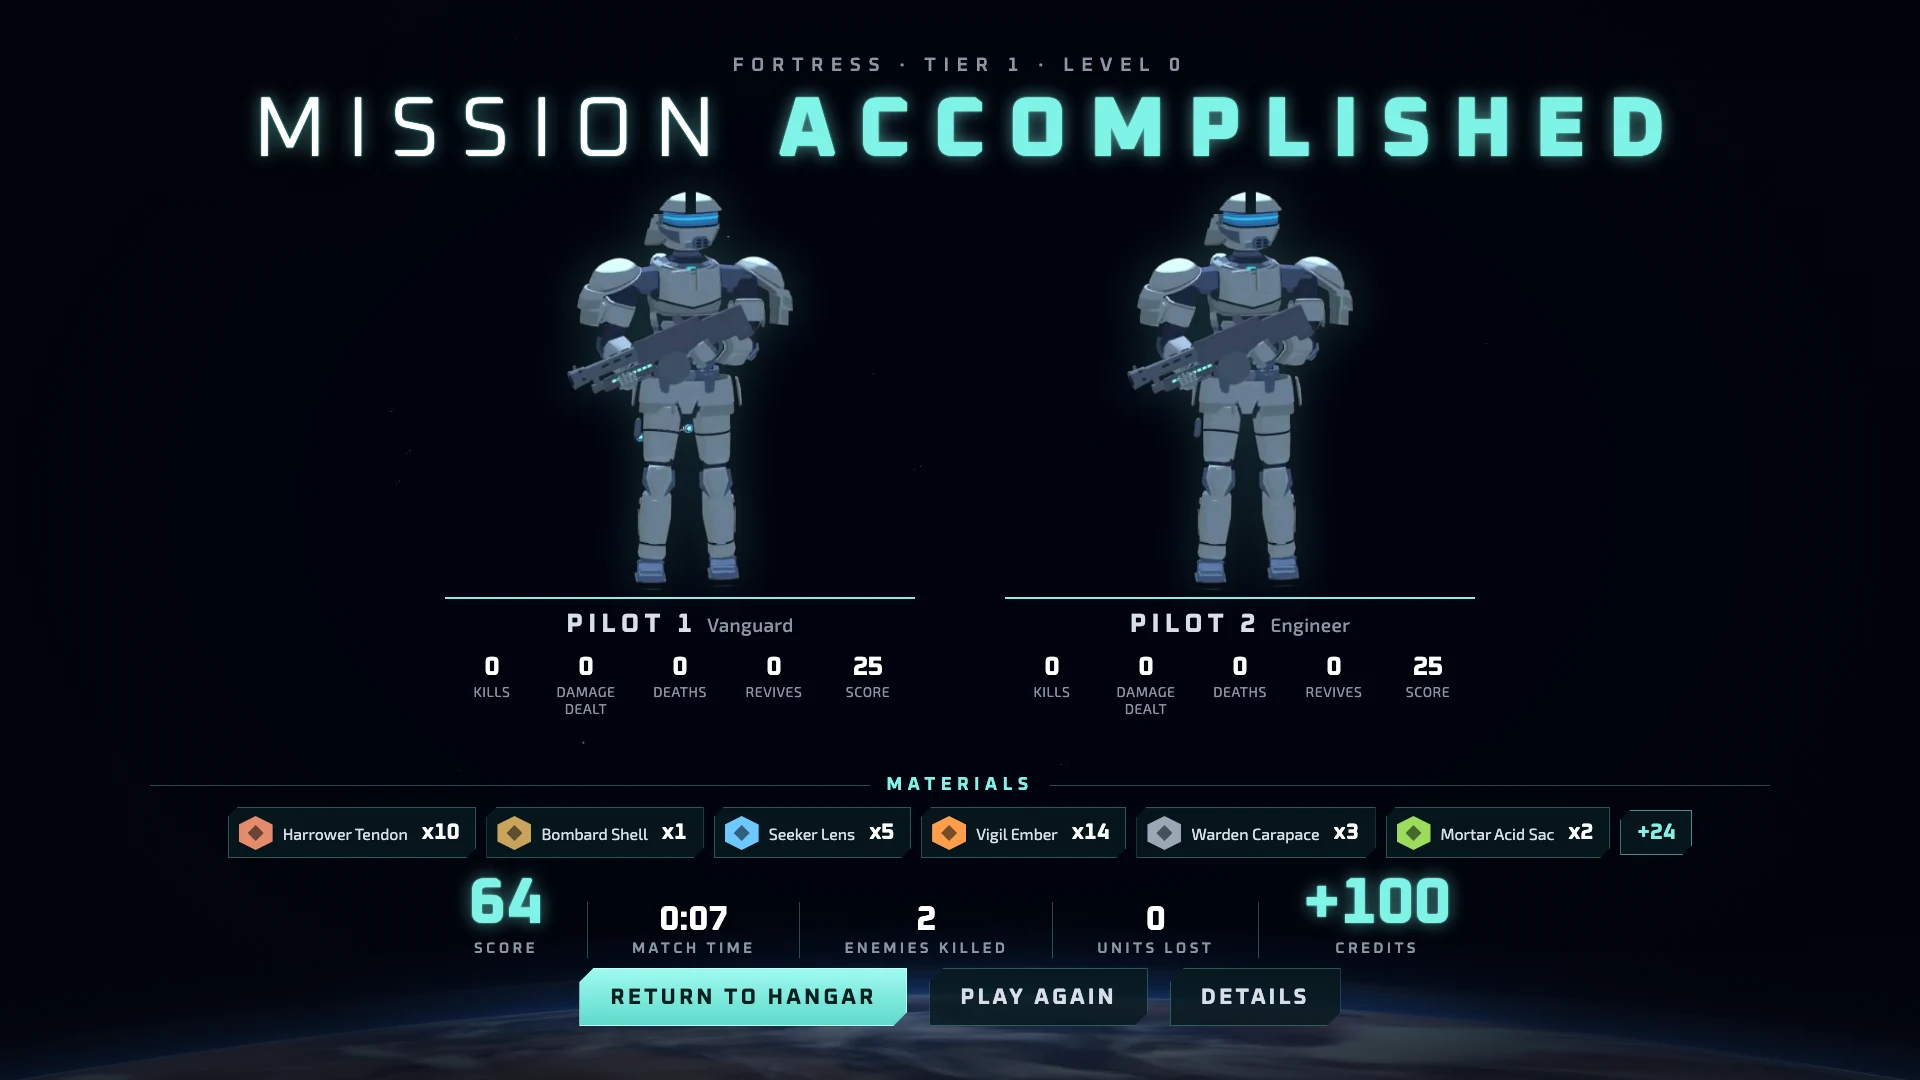
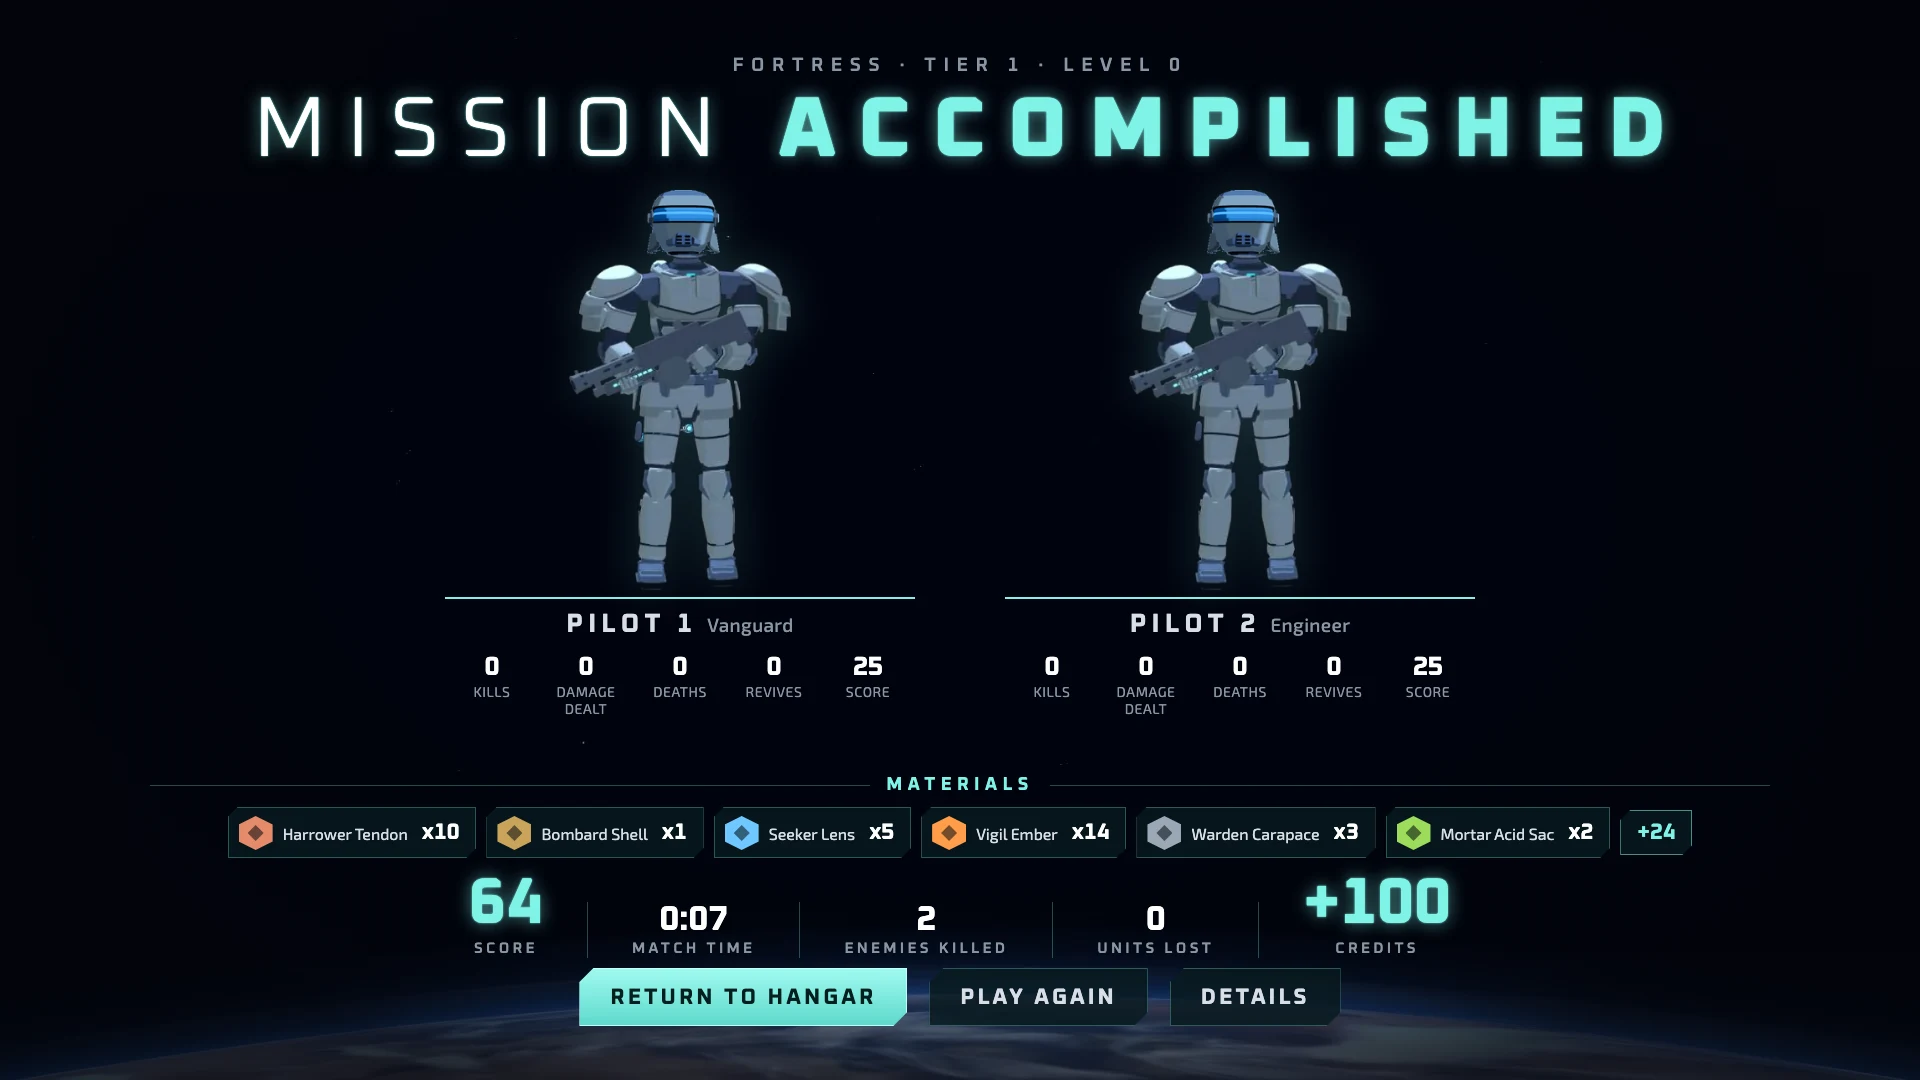
review page v248: Steel Tide: to review

Changed region(s): [[0.5938, 0.1528, 0.7188, 0.4583], [0.2812, 0.1528, 0.4062, 0.4583]]

diff --git a/d/steel-tide-clips-bb00109a/index.html b/d/steel-tide-clips-bb00109a/index.html
@@ -4,14 +4,13 @@
 <style>body{margin:0;background:#0d1117;color:#e6edf3;font:16px/1.5 -apple-system,system-ui,sans-serif}main{max-width:900px;margin:0 auto;padding:16px}h1{font-size:20px;margin:8px 0 4px}h2{font-size:17px;margin:34px 0 6px}p{margin:4px 0 10px;color:#9da7b3;font-size:14px}video,img{width:100%;height:auto;background:#000;border-radius:6px;display:block;margin-top:6px}a.b{display:inline-block;margin:8px 8px 0 0;padding:10px 14px;border:1px solid #3d444d;border-radius:6px;color:#e6edf3;text-decoration:none;font-size:14px}.t{font-size:12px;font-weight:400;color:#0d1117;background:#9da7b3;border-radius:10px;padding:2px 8px;margin-left:6px;vertical-align:middle}p.d{color:#7cb7ff;font-size:13px;margin:0 0 6px}nav small{color:#9da7b3;margin-left:6px}p b{color:#e6edf3}nav a{display:block;padding:7px 0;color:#7cb7ff;text-decoration:none;font-size:14px;border-bottom:1px solid #21262d}a.z{display:block;cursor:zoom-in}p.h{font-size:12px;margin:2px 0 8px}#lb{position:fixed;inset:0;background:#000;z-index:9;overflow:auto;display:none;cursor:zoom-in}#lb.on{display:block}#lb img{width:100%;height:100%;object-fit:contain;margin:0;border-radius:0;background:#000}#lb.big{cursor:zoom-out}#lb.big img{width:auto;height:auto;max-width:none;object-fit:none}#lbx{position:fixed;top:10px;right:14px;z-index:10;display:none;font:600 15px system-ui;color:#fff;background:#21262d;border:1px solid #3d444d;border-radius:6px;padding:8px 12px;cursor:pointer}#lb.on+#lbx{display:block}</style></head>
 <body><main>
 <h1>Steel Tide: to review</h1>
-<p>Version 247, 11-22 12:31 AM. NEEDS YOUR OK: results screen C, revised. Also new: Petrel polish round 4 and the Forge (both in review), and four convoy directions to pick from. Live tonight: M411 to M414. Newest first. Total 27.4 MB.</p>
-<nav><a href="#results-screen-mockups">NEEDS YOUR OK: results screen C, revision 4 <small>11-22 5:35 AM</small></a><a href="#sand-wind-back">Blowing sand is back (wind gusts over the desert) <small>11-22 5:20 AM</small></a><a href="#desert-subtle-roll">Desert floor: a subtle rolling curve <small>11-22 4:40 AM</small></a><a href="#petrel-refine-r4">Petrel ship: polish round 4 (rounder, smoother) <small>11-22 4:25 AM</small></a><a href="#hangar-forge">The Forge: a crafting station in the hangar <small>11-22 3:55 AM</small></a><a href="#convoy-mockups">NEEDS YOUR PICK: the escort convoy, four directions <small>11-22 1:30 AM</small></a><a href="#lift-passing-lights">Elevator lights light the Petrel as it rises <small>11-22 12:40 AM</small></a><a href="#jet-flames-visor">Mech jet flames match your visor color <small>11-22 12:35 AM</small></a><a href="#weapon-icons-round-3">Weapon icons: style A in the game <small>11-21 10:10 PM</small></a><a href="#pilot-gun-clipping">Pilot: carried gun and arms no longer cut into the body (before / after) <small>11-21 10:05 PM</small></a><a href="#hangar-one-petrel">Only your Petrel in the hangar <small>11-21 9:40 PM</small></a><a href="#navy-shell-arc">Navy shells fly one smooth arc <small>11-21 8:37 PM</small></a><a href="#hangar-mech-feet">Hangar mech stands on its cradle <small>11-21 8:37 PM</small></a><a href="#dock-scene-ease">Docking: camera, Petrel glide and lift light <small>11-21 8:37 PM</small></a><a href="#desert-r20-m337-sky">Desert: our sand under yesterday&#x27;s sky <small>11-21 8:37 PM</small></a><a href="#extraction-outro-live">Extraction ending, full outro (live build) <small>11-21 6:35 PM</small></a><a href="#no-black-preload">Mission start: no black screen before the flight <small>11-21 5:05 PM</small></a><a href="#sand-impacts">Desert: shots, landings and footsteps throw up sand <small>11-21 4:55 PM</small></a><a href="#ocean-navy">Ocean navy: fewer, heavier ships; lobbed shells you can see; hull explosions; torpedo wakes <small>11-21 4:47 PM</small></a><a href="#sand-repo-demo">The open-source dune scene we are porting, as it looks in its own demo <small>11-21 4:42 PM</small></a><a href="#roll-chevrons-removed">Old roll and floor dashes removed <small>11-21 2:53 PM</small></a><a href="#unit-ground-shadows">Unit ground shadows back on <small>11-21 1:02 PM</small></a><a href="#pilot-walk-sway">Pilot walk: half the side-to-side sway (before / after) <small>11-21 12:44 PM</small></a><a href="#boss-shading-which-part">Your 8:00 PM report: which part of the boss looked wrong? <small>11-20 10:51 PM</small></a><a href="#new-mech-3d-r2">New mech: first 3D model from your sheet <small>11-19 11:21 PM</small></a><a href="#tactician-r2-s302-clean">Tactician pilot: your pick, smudges cleaned (ready to wire) <small>11-19 10:24 PM</small></a><a href="#vanguard-r2-s302">Vanguard pilot: your pick, six fingers fixed (ready to wire) <small>11-19 10:24 PM</small></a><a href="#cradle-drop-launch-r4">NEEDS YOUR PICK: the drop cannon&#x27;s size on the Cradle (three sizes), with its back hidden and navy colour <small>11-18 7:43 PM</small></a><a href="#horde-pilot-zoom">NEEDS YOUR CALL: island Horde, camera zooms in when you are on foot <small>11-17 1:30 PM</small></a></nav>
-<section id="results-screen-mockups"><h2>NEEDS YOUR OK: results screen C, revision 4 <span class="t">needs your decision</span></h2>
-<p class="d">Updated 11-22 5:35 AM ET &middot; captured from mockups, not in the game</p>
-<p><b>What changed:</b> Revision 4: the pilots hold their weapons and face forward, and the Enter label is off the Return to hangar button. Everything from revision 3 stays (Enemies killed, Return to hangar, Details, the labelled Materials section with the +24 chip).</p>
-<p><b>Where to look:</b> The pilot figure is a stand-in cut from the live screen and used twice; a small dark mark on top of the helmet comes from that cut-out, not the design. The second picture is revision 3 for comparison.</p>
-<a class="z" href="results-screen-mockups-1-full.webp"><img loading="lazy" src="results-screen-mockups-1.webp" alt="NEEDS YOUR OK: results screen C, revision 4"></a><p class="h">Click the image for full screen, click again for full size.</p>
-<a class="z" href="results-screen-mockups-2-full.webp"><img loading="lazy" src="results-screen-mockups-2.webp" alt="NEEDS YOUR OK: results screen C, revision 4"></a><p class="h">Click the image for full screen, click again for full size.</p></section>
+<p>Version 248, 11-22 12:35 AM. NEEDS YOUR OK: results screen C, revised. Also new: Petrel polish round 4 and the Forge (both in review), and four convoy directions to pick from. Live tonight: M411 to M414. Newest first. Total 27.3 MB.</p>
+<nav><a href="#results-screen-mockups">NEEDS YOUR OK: results screen C, revision 5 <small>11-22 6:20 AM</small></a><a href="#sand-wind-back">Blowing sand is back (wind gusts over the desert) <small>11-22 5:20 AM</small></a><a href="#desert-subtle-roll">Desert floor: a subtle rolling curve <small>11-22 4:40 AM</small></a><a href="#petrel-refine-r4">Petrel ship: polish round 4 (rounder, smoother) <small>11-22 4:25 AM</small></a><a href="#hangar-forge">The Forge: a crafting station in the hangar <small>11-22 3:55 AM</small></a><a href="#convoy-mockups">NEEDS YOUR PICK: the escort convoy, four directions <small>11-22 1:30 AM</small></a><a href="#lift-passing-lights">Elevator lights light the Petrel as it rises <small>11-22 12:40 AM</small></a><a href="#jet-flames-visor">Mech jet flames match your visor color <small>11-22 12:35 AM</small></a><a href="#weapon-icons-round-3">Weapon icons: style A in the game <small>11-21 10:10 PM</small></a><a href="#pilot-gun-clipping">Pilot: carried gun and arms no longer cut into the body (before / after) <small>11-21 10:05 PM</small></a><a href="#hangar-one-petrel">Only your Petrel in the hangar <small>11-21 9:40 PM</small></a><a href="#navy-shell-arc">Navy shells fly one smooth arc <small>11-21 8:37 PM</small></a><a href="#hangar-mech-feet">Hangar mech stands on its cradle <small>11-21 8:37 PM</small></a><a href="#dock-scene-ease">Docking: camera, Petrel glide and lift light <small>11-21 8:37 PM</small></a><a href="#desert-r20-m337-sky">Desert: our sand under yesterday&#x27;s sky <small>11-21 8:37 PM</small></a><a href="#extraction-outro-live">Extraction ending, full outro (live build) <small>11-21 6:35 PM</small></a><a href="#no-black-preload">Mission start: no black screen before the flight <small>11-21 5:05 PM</small></a><a href="#sand-impacts">Desert: shots, landings and footsteps throw up sand <small>11-21 4:55 PM</small></a><a href="#ocean-navy">Ocean navy: fewer, heavier ships; lobbed shells you can see; hull explosions; torpedo wakes <small>11-21 4:47 PM</small></a><a href="#sand-repo-demo">The open-source dune scene we are porting, as it looks in its own demo <small>11-21 4:42 PM</small></a><a href="#roll-chevrons-removed">Old roll and floor dashes removed <small>11-21 2:53 PM</small></a><a href="#unit-ground-shadows">Unit ground shadows back on <small>11-21 1:02 PM</small></a><a href="#pilot-walk-sway">Pilot walk: half the side-to-side sway (before / after) <small>11-21 12:44 PM</small></a><a href="#boss-shading-which-part">Your 8:00 PM report: which part of the boss looked wrong? <small>11-20 10:51 PM</small></a><a href="#new-mech-3d-r2">New mech: first 3D model from your sheet <small>11-19 11:21 PM</small></a><a href="#tactician-r2-s302-clean">Tactician pilot: your pick, smudges cleaned (ready to wire) <small>11-19 10:24 PM</small></a><a href="#vanguard-r2-s302">Vanguard pilot: your pick, six fingers fixed (ready to wire) <small>11-19 10:24 PM</small></a><a href="#cradle-drop-launch-r4">NEEDS YOUR PICK: the drop cannon&#x27;s size on the Cradle (three sizes), with its back hidden and navy colour <small>11-18 7:43 PM</small></a><a href="#horde-pilot-zoom">NEEDS YOUR CALL: island Horde, camera zooms in when you are on foot <small>11-17 1:30 PM</small></a></nav>
+<section id="results-screen-mockups"><h2>NEEDS YOUR OK: results screen C, revision 5 <span class="t">needs your decision</span></h2>
+<p class="d">Updated 11-22 6:20 AM ET &middot; captured from mockups, not in the game</p>
+<p><b>What changed:</b> Revision 5: the pilot helmet is clean and symmetric (the lopsided helmet in revision 4 was a fault in my cut-out picture, not the design). Everything else is as revision 4: pilots forward with weapons, no Enter label, Enemies killed, Return to hangar, Details, the labelled Materials section with the +24 chip.</p>
+<p><b>Where to look:</b> The same pilot figure is used twice as a stand-in; the real screen draws each player&#x27;s own pilot and weapon.</p>
+<a class="z" href="results-screen-mockups-1-full.webp"><img loading="lazy" src="results-screen-mockups-1.webp" alt="NEEDS YOUR OK: results screen C, revision 5"></a><p class="h">Click the image for full screen, click again for full size.</p></section>
 <section id="sand-wind-back"><h2>Blowing sand is back (wind gusts over the desert) <span class="t">in review</span></h2>
 <p class="d">Updated 11-22 5:20 AM ET &middot; captured from lane build d537d85c9d (Codex), not live yet</p>
 <p><b>What changed:</b> The blowing sand and travelling gusts are restored on the live sand as their own layer. With the wind switched off, the desert, ocean and island pictures are identical to the live game, pixel for pixel, so nothing else changed. Stills only for now; the clip follows once it is live, since wind is motion.</p>
